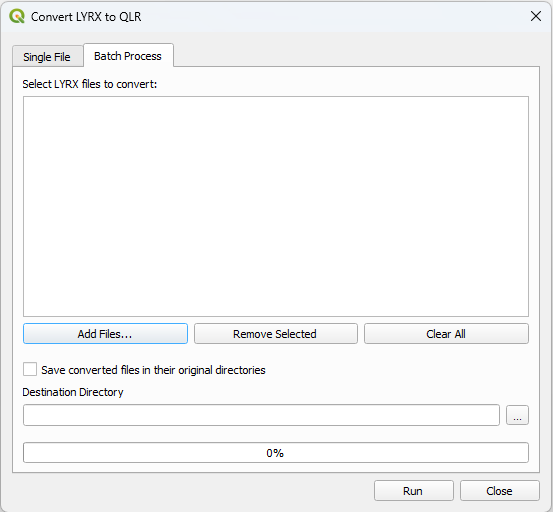
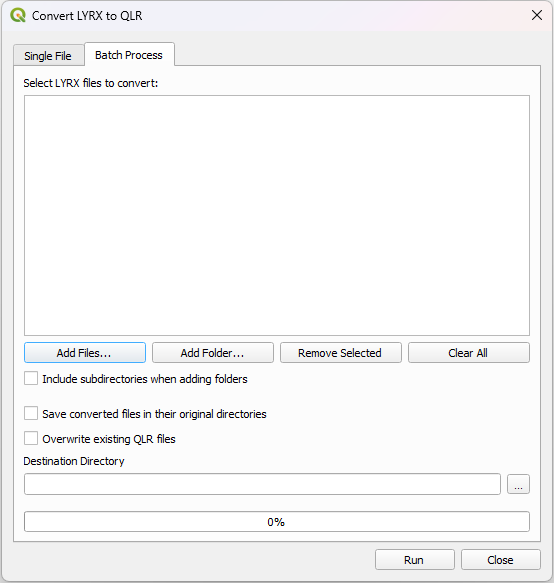
rename during batch overwrite

Changed region(s): [[0.0, 0.0, 1.0, 1.0]]

diff --git a/arctoq_plugin.py b/arctoq_plugin.py
@@ -316,25 +316,37 @@ class ArcToQPlugin:
 
         successes = []
         errors = []
-        renamed_files = [] # Track files that get automatically renamed
+        renamed_files = [] 
+        generated_destinations = set() # Track all paths we actively generate in THIS batch
 
         with tempfile.TemporaryDirectory() as temp_dir:
             for index, lyrx_path in enumerate(files_to_convert):
                 lyrx_path = os.path.normpath(lyrx_path)
-                # Safely slice off the extension to strictly enforce string type
                 base_name = os.path.basename(lyrx_path)
                 name_only = base_name[:-5] if base_name.lower().endswith(".lyrx") else base_name
                 
                 current_out_dir = os.path.dirname(lyrx_path) if save_in_place else out_dir
                 out_file = os.path.join(current_out_dir, f"{name_only}.qlr")
                 
-                # Auto-rename: cleanly append (1), (2), etc. using F-strings
-                if not allow_overwrite and os.path.exists(out_file):
+                # We rename if Overwrite is OFF AND the file exists on disk, 
+                # OR if we already created a file with this exact name during THIS batch run.
+                needs_rename = (not allow_overwrite and os.path.exists(out_file)) or (out_file in generated_destinations)
+                
+                if needs_rename:
                     counter = 1
-                    while os.path.exists(out_file):
-                        out_file = os.path.join(current_out_dir, f"{name_only} ({counter}).qlr")
+                    while True:
+                        test_out_file = os.path.join(current_out_dir, f"{name_only} ({counter}).qlr")
+                        # Ensure the new name hasn't been generated in this batch
+                        if test_out_file not in generated_destinations:
+                            # Ensure either we can overwrite, or it doesn't exist on disk
+                            if allow_overwrite or not os.path.exists(test_out_file):
+                                out_file = test_out_file
+                                break
                         counter += 1
+                    
                     renamed_files.append(f"{base_name}  ->  {os.path.basename(out_file)}")
+                
+                generated_destinations.add(out_file)
                 
                 try:
                     convert_lyrx(lyrx_path, temp_dir, qgs=QgsApplication.instance()) 
@@ -372,13 +384,13 @@ class ArcToQPlugin:
             else:
                 self.iface.messageBar().pushSuccess("ArcToQ", msg)
                 
-            # Show the new rename notification dialog
+            # Show the rename notification dialog if anything had to be dynamically renumbered
             if renamed_files:
                 rename_msg = "\n".join(renamed_files)
                 QMessageBox.information(
                     self.iface.mainWindow(), 
                     "Files Renamed", 
-                    f"To prevent overwriting, the following QLRs were automatically renamed:\n\n{rename_msg}"
+                    f"To prevent overwriting existing files or duplicate names, the following QLRs were automatically renamed:\n\n{rename_msg}"
                 )
                 
             reply = QMessageBox.question(
